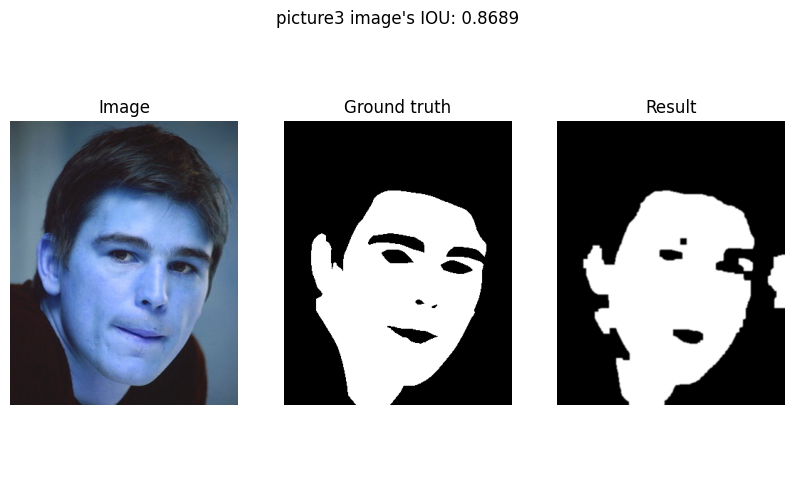
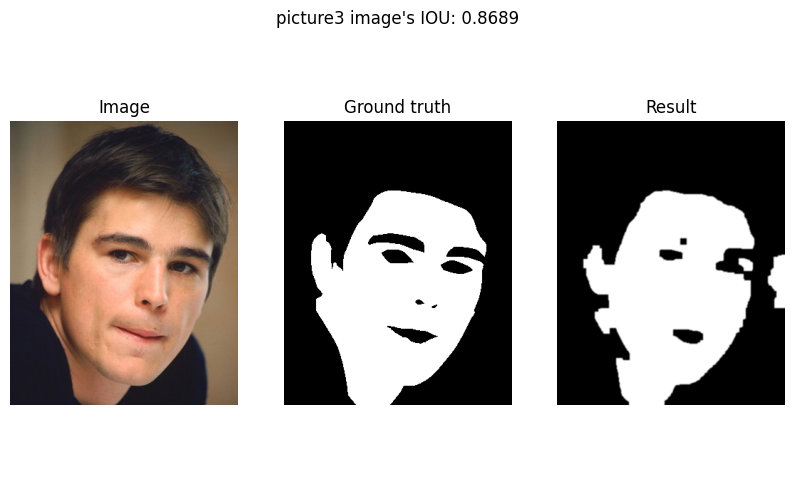
05/19 Improve result compare vision

Changed region(s): [[0.0, 0.2381, 0.3023, 0.8036]]

diff --git a/Skin-Color-Detection/main.py b/Skin-Color-Detection/main.py
@@ -12,7 +12,7 @@ def createWindow(image = None, title = None):
     plt.figure(figsize=(10, 6))
     
     if image is not None:
-        plt.imshow(image, cmap='gray')
+        plt.imshow(image)
         
     if title is not None:
         plt.title(title)
@@ -33,15 +33,16 @@ def main():
         image_path = f"./Photo/pic{i}.jpg"
         ground_truth_path = f"./GroundTruth/pic{i}.png"
         origin_result_path = f"./Result/pic{i}.jpg"
-        
+                
         skin_masked, iou = skin_detect(image_path, ground_truth_path)
 
         print(f"picture{i} image\'s IOU: {iou}")
 
+        photo = cv2.cvtColor(cv2.imread(image_path), cv2.COLOR_BGR2RGB)
         
         createWindow(title=f"picture{i} image\'s IOU: {iou.round(4)}")
         
-        plt.subplot(1, 3, 1), plt.title("Image"), plt.imshow(cv2.imread(image_path)), plt.axis("off"), plt.xticks([]), plt.yticks([])
+        plt.subplot(1, 3, 1), plt.title("Image"), plt.imshow(photo), plt.axis("off"), plt.xticks([]), plt.yticks([])
         plt.subplot(1, 3, 2), plt.title("Ground truth"), plt.imshow(cv2.imread(ground_truth_path, cv2.IMREAD_GRAYSCALE), cmap="gray"), plt.axis("off"), plt.xticks([]), plt.yticks([])
         plt.subplot(1, 3, 3), plt.title("Result"), plt.imshow(skin_masked, cmap="gray"), plt.axis("off"), plt.xticks([]), plt.yticks([])
         
